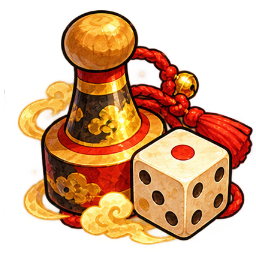
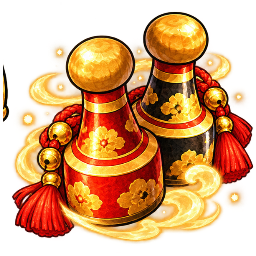
サイコロが描かれていた挿絵10枚・アイコン4つを、サイコロを描かない絵に描き直し
開発者の指摘：生成 AI はサイコロの絵が苦手で、目の数や並びがおかしくなっていた
- 挿絵（ChatGPT に「サイコロは一つも描かない」と頼んだ）：流しの職人・落ちている賽（光る巾着）・旅団の宴・旅の商人・合わせ賽の鍛冶師・鬼の賽勝負（伏せた壺振りの壺）・鬼の落とし物・玉虫の厨子・賽の付喪神（壺の付喪神）・妖刀の祠
- アイコン：二の鼓・双六の駒・振り直しの巻物・三つ目の賽筒
- 引き継ぎ資料に夜の作業（#223・#224・WebGL ビルド）を追記

diff --git a/Docs/handoff-2026-10-16.md b/Docs/handoff-2026-10-16.md
@@ -135,3 +135,25 @@
 - 戦闘を「使う」と「ターン終了」に分け、ダイスの効果が1個ずつ発動するように
 - 協力プレイで、行き先が同じ票のときは抽選に
 - 図鑑にイベントのページを追加
+
+## 9. 夜の追加（開発者が戻ってから）
+
+開発者の指摘：似たり寄ったりのダイスが多い／中身が同じダイスがある／6面以外や枠から外れたダイスを／アンコモンがコモンより多い／呪いを増やす／生成AIのサイコロの絵がおかしい。
+
+| PR | 内容 |
+| --- | --- |
+| #223 | ダイスの見直し：似たダイス10種の作り替え・四面〜二十面・呼び戻し賽・育ち賽・分身賽・二度振り賽・呪い4種・レア度の並び直し・名前の重なり5組の改名・敵の HP +13% |
+| #224 | サイコロが描かれていた挿絵10枚・アイコン4つを、サイコロを描かない絵に描き直し |
+
+- ダイスは全 **107 種**。報酬に出るダイスはコモン 39・アンコモン 28・レア 18（始めのダイスも含む）。仕様書の「4. ダイス一覧」はデータから作り直した。
+- 6面以外：`DiceInstance` の面の数はダイスごと（`DiceData.faceValues` の長さ。2〜20）。十二面・二十面の札は `DiceCard.FaceRangeLabel` で「十二面 1〜12」と字で出す。四面〜二十面は鍛冶の画面が6面前提なので `cannotForge`。
+- 新しい効果：`GrowFaceEffect`（育ち賽）・`CurseEffect`（呪い4種）・`ReturnUsedDieEffect.perPip`（呼び戻し賽）。
+- 作り替えたダイスは id をそのままにした（偶数賽 guusu → 呼び戻し賽 など）。セーブはそのまま読める。
+- 呪いを増やしても自動プレイの踏破率は変わらなかった（2種 44.3%・6種 44.0%）。下がったのは作り替えとレア度の変更のため → 第2・3層の敵の HP を +18% → +13%（600 回で約 49.7%）。
+- 絵：サイコロは生成 AI がうまく描けない（目の数や並びが崩れる）ので、「サイコロは一つも描かない」と頼み、壺振りの壺・光・小鼓などで表した。
+  - 描き直した挿絵：流しの職人・落ちている賽・旅団の宴・旅の商人・合わせ賽の鍛冶師・鬼の賽勝負・鬼の落とし物・玉虫の厨子・賽の付喪神・妖刀の祠
+  - 描き直したアイコン：二の鼓・双六の駒・振り直しの巻物・三つ目の賽筒
+  - そのままにしたもの：丁の札・半の札（平らな目だけで崩れていない）、博徒・細工師の絵（手の中の小さなサイコロで、ほとんど見えない）、マス「賭場」の絵（目のない白い箱）
+- 気づいたこと：遊び方の画面の絵（`Art/howto_roll.png`）は古い画面の写真で、「決定」「パス」のボタンが写っている（今は「使う」「ターン終了」）。撮り直したほうがよい。
+- WebGL：#223・#224 まで入れて 16:25 に作り直した（エラー 0・data.gz 約 65MB）。unityroom にはこれを上げる（6 章の 15:25 版より新しい）。
+- 落ちている賽の挿絵は2案から「石の上で光る巾着」を、鬼の賽勝負は「伏せた壺振りの壺」を選んだ。
